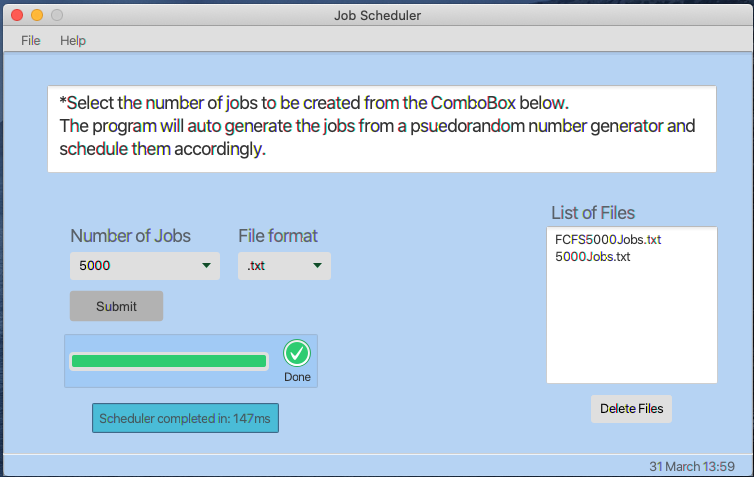
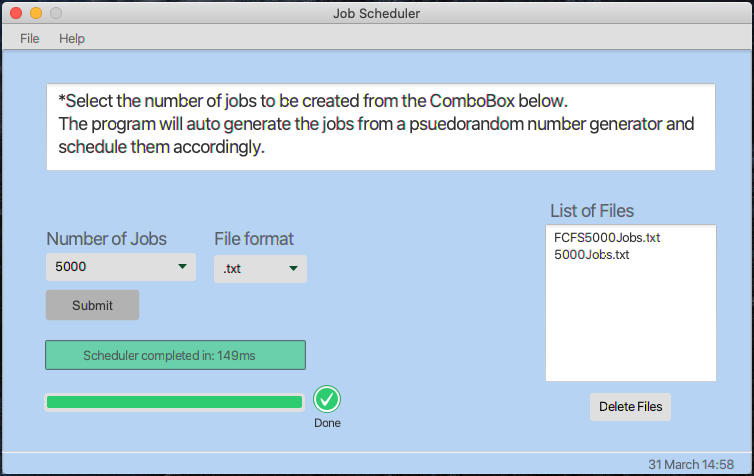
Changed UI

diff --git a/src/sample/ScheduleController.java b/src/sample/ScheduleController.java
@@ -52,8 +52,6 @@ public class ScheduleController {
     @FXML
     private Rectangle timeRectangle;
 
-    @FXML
-    private Rectangle progressRectangle;
 
     @FXML
     private TextArea filesTextArea;
@@ -91,7 +89,6 @@ public class ScheduleController {
         progressBar.setVisible(true);
         progressIndicator.setVisible(true);
         timeRectangle.setVisible(true);
-        progressRectangle.setVisible(true);
 
         if (selectedNumber == null) {
             selectedNumber = 0;
@@ -152,7 +149,6 @@ public class ScheduleController {
     private void resetUI() {
         progressIndicator.setVisible(false);
         progressBar.setVisible(false);
-        progressRectangle.setVisible(false);
         timeTakenLbl.setText("");
         timeRectangle.setVisible(false);
     }
@@ -212,6 +208,6 @@ public class ScheduleController {
                 Platform.runLater(() -> timeLabel.setText(time));
             }
         });
-        timerThread.start();//start the thread and its ok
+        timerThread.start();
     }
 }
